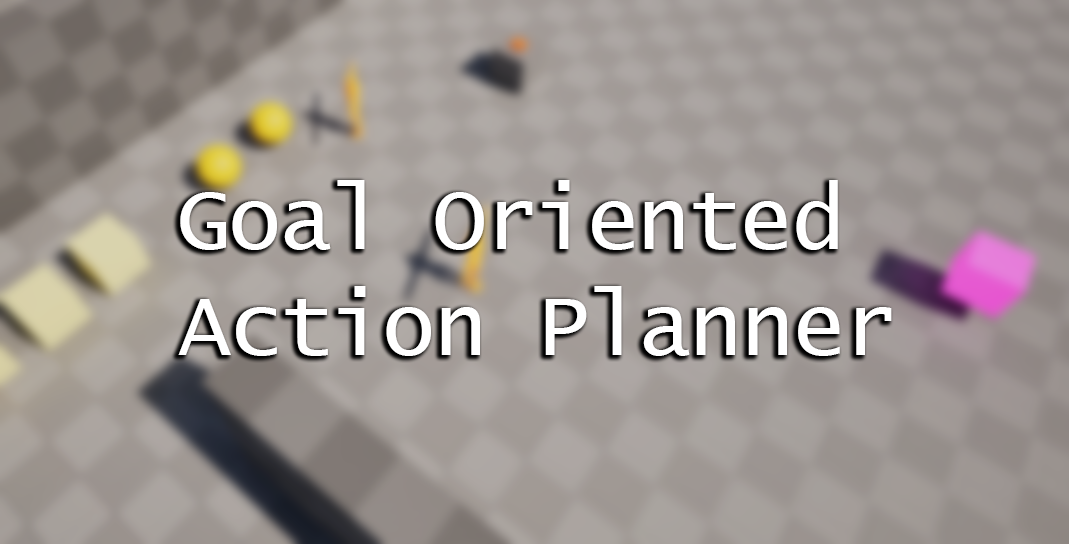
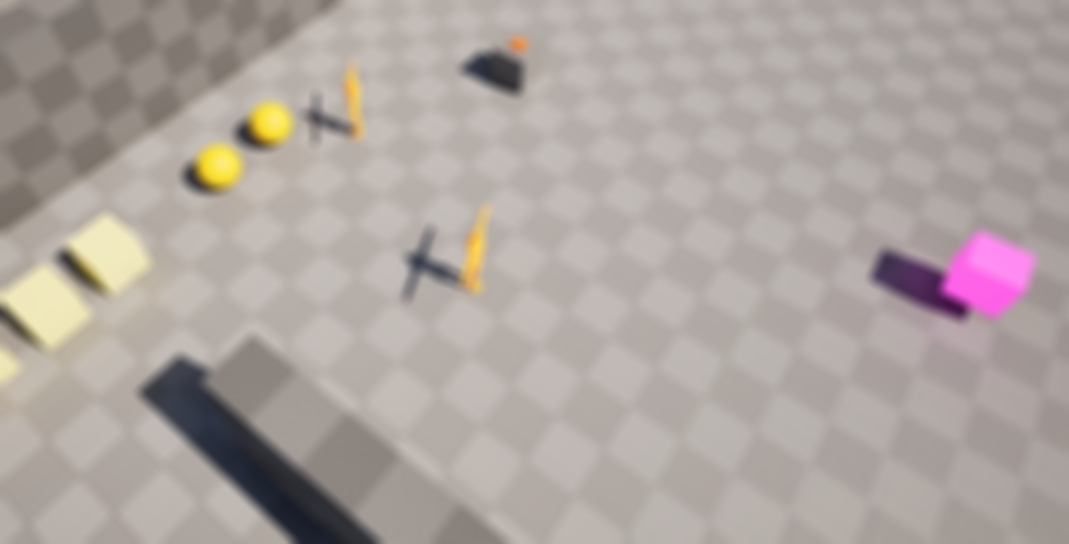
Applied Portfolio Feedback

diff --git a/index.html b/index.html
@@ -230,48 +230,6 @@
                 </div><!-- End Portfolio Item -->
 
                 <div class="col-lg-6 col-md-6 portfolio-item isotope-item filter-soloprojects">
-                  <a href="portfolio-details-UEG.html" class="text-decoration-none">
-                  <div class="portfolio-wrap">
-                    <img src="assets/img/portfolio/UEG/UEG-1.png" class="img-fluid" alt="Portfolio Image" loading="lazy">
-                    <div class="portfolio-info">
-                      <div class="content">
-                        <span class="category">Solo Projects</span>
-                        <h1>Unreal Engine Game</h1>
-                      </div>
-                      <div class="portfolio-tags">
-                        <span class="tag">Unreal Engine</span>
-                        <span class="tag">Blueprint</span>
-                        <span class="tag">Singleplayer</span>
-                      </div>
-                    </div>
-                  </div>
-                  </a>
-                </div><!-- End Portfolio Item -->
-
-                <div class="col-lg-6 col-md-6 portfolio-item isotope-item filter-soloprojects">
-                  <a href="portfolio-details-ZG.html" class="text-decoration-none">
-                  <div class="portfolio-wrap">
-                    <img src="assets/img/portfolio/ZG/front.png" class="img-fluid" alt="Portfolio Image" loading="lazy">
-                    <div class="portfolio-info">
-                      <div class="content">
-                        <span class="category">Solo Projects</span>
-                        <h1>Zombie Game</h1>
-                      </div>
-                      <div class="portfolio-tags">
-                        <span class="tag">Unreal Engine</span>
-                        <span class="tag">C++</span>
-                        <span class="tag">Plugin</span>
-                        <span class="tag">Game AI</span>
-                      </div>
-                    </div>
-                  </div>
-                  </a>
-                </div><!-- End Portfolio Item -->
-
-
-                
-
-                <div class="col-lg-6 col-md-6 portfolio-item isotope-item filter-soloprojects">
                   <a href="portfolio-details-UG.html" class="text-decoration-none">
                   <div class="portfolio-wrap">
                     <img src="assets/img/portfolio/UG/front.png" class="img-fluid" alt="Portfolio Image" loading="lazy">
@@ -291,8 +249,50 @@
                   </a>
                 </div><!-- End Portfolio Item -->
 
-
                 <div class="col-lg-6 col-md-6 portfolio-item isotope-item filter-soloprojects">
+                  <a href="portfolio-details-UEG.html" class="text-decoration-none">
+                  <div class="portfolio-wrap">
+                    <img src="assets/img/portfolio/UEG/UEG-1.png" class="img-fluid" alt="Portfolio Image" loading="lazy">
+                    <div class="portfolio-info">
+                      <div class="content">
+                        <span class="category">Solo Projects</span>
+                        <h1>Unreal Engine Game</h1>
+                      </div>
+                      <div class="portfolio-tags">
+                        <span class="tag">Unreal Engine</span>
+                        <span class="tag">Blueprint</span>
+                        <span class="tag">Singleplayer</span>
+                      </div>
+                    </div>
+                  </div>
+                  </a>
+                </div><!-- End Portfolio Item -->
+
+                <!--<div class="col-lg-6 col-md-6 portfolio-item isotope-item filter-soloprojects">
+                  <a href="portfolio-details-ZG.html" class="text-decoration-none">
+                  <div class="portfolio-wrap">
+                    <img src="assets/img/portfolio/ZG/front.png" class="img-fluid" alt="Portfolio Image" loading="lazy">
+                    <div class="portfolio-info">
+                      <div class="content">
+                        <span class="category">Solo Projects</span>
+                        <h1>Zombie Game</h1>
+                      </div>
+                      <div class="portfolio-tags">
+                        <span class="tag">Unreal Engine</span>
+                        <span class="tag">C++</span>
+                        <span class="tag">Plugin</span>
+                        <span class="tag">Game AI</span>
+                      </div>
+                    </div>
+                  </div>
+                  </a>
+                </div> End Portfolio Item -->
+
+
+            
+
+
+                <!-- <div class="col-lg-6 col-md-6 portfolio-item isotope-item filter-soloprojects">
                   <a href="portfolio-details-GP.html" class="text-decoration-none">
                   <div class="portfolio-wrap">
                     <img src="assets/img/portfolio/GP/front.png" class="img-fluid" alt="Portfolio Image" loading="lazy">
@@ -309,7 +309,7 @@
                     </div>
                   </div>
                   </a>
-                </div><!-- End Portfolio Item -->
+                </div> End Portfolio Item -->
                 
 
               </div><!-- End Portfolio Container -->

diff --git a/portfolio-details-UG.html b/portfolio-details-UG.html
@@ -133,7 +133,7 @@
               <h3>Project Information</h3>
               <ul>
                 <li><strong>Category</strong>: Solo Projects</li>
-                <li><strong>Course</strong>: Game Engine Fundamentals</li>
+                <li><strong>Engine</strong>: Unity</li>
                 <li><strong>Project date</strong>: Nov 2025</li>
               </ul>
               <div class="portfolio-links">
@@ -147,17 +147,17 @@
             <div class="portfolio-description" data-aos="fade-up" data-aos-delay="300">
               <h2>Project Overview</h2>
               <p>
-                I made this project for the course "Game Engine Fundamentals", where we learn the basics of both Unity and Unreal Engine.
-              </p>
-              <p>
-                During the first half of the semester we were tasked to make a prototype game in Unity.
-                To start off we all got two random words. Using these two words we had to come up with a game idea.
+                During the first half of the semester I was tasked to make a prototype game in Unity.
+                To start off I got two random words. Using these two words I had to come up with a game idea.
                 My two words were: Train & Turn.
               </p>
               <p>
                 The Game takes place on a train filled with monsters turning around a large lamp. 
                 This lamp is very dangerous and the player loses health while standing in its light. 
                 The player has to reach the end of the train by carefully clearing each train car and avoiding the lamp.
+              </p>
+              <p>
+                I found this project interesting because it was my first time working with Unity. It taught me a lot about the Unity framework and helped me understand how to create a game using the engine.
               </p>
 
               <div class="features mt-4">
@@ -166,28 +166,32 @@
                   <div class="col-md-6">
                     <div class="feature-item" data-aos="fade-up" data-aos-delay="400">
                       <h4>Enemies</h4>
-                      <p>The game has two enemy types, a normal enemy and a lamp alerter.</p>
+                      <p>The game features two enemy types: a normal enemy and a lamp alerter. 
+                        The normal enemy attacks the player on sight using a stick, while the lamp alerter can also alert the light to the player's current position.</p>
                     </div>
                   </div>
 
                   <div class="col-md-6">
                     <div class="feature-item" data-aos="fade-up" data-aos-delay="500">
                       <h4>Enemy Lamp</h4>
-                      <p>This project uses "lighting" as a mechanic. The light of the lamp moves around the train. The player has to keep track of its movement and hide at the right moments.</p>
+                      <p>This project uses "lighting" as a mechanic. The light of the lamp moves around the train. The player has to keep track of its movement and hide at the right moments.
+                        To check whether the player is seen by the light, I used a dot product to determine if the player was within the light's bounds and a raycast to check if an object was blocking the light.
+                      </p>
                     </div>
                   </div>
 
                   <div class="col-md-6">
                     <div class="feature-item" data-aos="fade-up" data-aos-delay="600">
                       <h4>Mirror</h4>
-                      <p>The player can use a mirror to temporarily disable the lights.</p>
+                      <p>The player can pick up mirrors and use them to temporarily disable the light for a few seconds. 
+                        To achieve this, I used the same principles as the light detection system.</p>
                     </div>
                   </div>
 
                   <div class="col-md-6">
                     <div class="feature-item" data-aos="fade-up" data-aos-delay="700">
                       <h4>Healing</h4>
-                      <p>The player can pickup healing items around the train.</p>
+                      <p>Healing cubes are scattered throughout the train. The player can collect them to restore health.</p>
                     </div>
                   </div>
                 </div>

diff --git a/portfolio-details-SUP.html b/portfolio-details-SUP.html
@@ -155,7 +155,7 @@
             <div class="portfolio-description" data-aos="fade-up" data-aos-delay="300">
               <h2>Project Overview</h2>
               <p>
-                For the course "Client Projects" we were tasked to make a game for a client. 
+                We were tasked to make a game for a client. 
                 At the start of the semester we had the chance to choose which client we wanted to work for (out of a list of clients). 
                 After this we were paired into groups with other students who chose the same client. 
                 We chose for the Belgian Navy/Airforce.
@@ -172,8 +172,8 @@
                 However, it is also possible to break things and cause hazards!
               </p>
               <p>
-                Client Projects was an elective course for me, so most of my group members were studying a different major (Independent Game Production). 
-                Therefore, we worked with Unity, as it is the program they are most familiar with.
+                I found this project interesting because it was my first group project and I was still learning Unity. 
+                It reallly helped me improve my Unity skills and gain valuable experience in game development.
               </p>
 
               <div class="features mt-4">

diff --git a/assets/css/main.css b/assets/css/main.css
@@ -1775,16 +1775,16 @@ section,
   left: 0;
   right: 0;
   padding: 25px;
-  background: linear-gradient(to top, rgba(0, 0, 0, 0.8) 0%, rgba(0, 0, 0, 0.4) 60%, rgba(0, 0, 0, 0) 100%);
+  background: linear-gradient(to top, rgba(0, 0, 0, 0.98) 0%, rgba(0, 0, 0, 0.7) 60%, rgba(0, 0, 0, 0) 100%);
   z-index: 3;
-  transition: all 0.4s cubic-bezier(0.215, 0.61, 0.355, 1);
-  transform: translateY(20px);
-  opacity: 0;
+  transition: none;
+  transform: translateY(0);
+  opacity: 1;
 }
 
 .portfolio .portfolio-wrap .portfolio-info .content {
-  transition: all 0.4s cubic-bezier(0.215, 0.61, 0.355, 1);
-  transform: translateY(20px);
+  transition: none;
+  transform: translateY(0);
 }
 
 .portfolio .portfolio-wrap .portfolio-info .category {
@@ -1835,14 +1835,6 @@ section,
   transform: scale(1.08);
 }
 
-.portfolio .portfolio-wrap:hover .portfolio-info {
-  transform: translateY(0);
-  opacity: 1;
-}
-
-.portfolio .portfolio-wrap:hover .portfolio-info .content {
-  transform: translateY(0);
-}
 
 
 .portfolio .portfolio-wrap .portfolio-info .portfolio-tags {

diff --git a/portfolio-details-FB.html b/portfolio-details-FB.html
@@ -167,6 +167,9 @@
                 The bonfire serves as the team's lifeline. It heals nearby players, and its own health can be restored by collecting and throwing magical crystals into the flames.
                 The objective is to survive every enemy wave while keeping the bonfire alive. The game is won once all waves have been successfully completed
               </p>
+              <p>
+                I enjoyed working on this project because it was my first time following a three-phase game development pipeline and using Perforce. It taught me a lot about the game development process and version control.
+              </p>
 
               <div class="features mt-4">
                 <h3>Features (I worked on):</h3>
